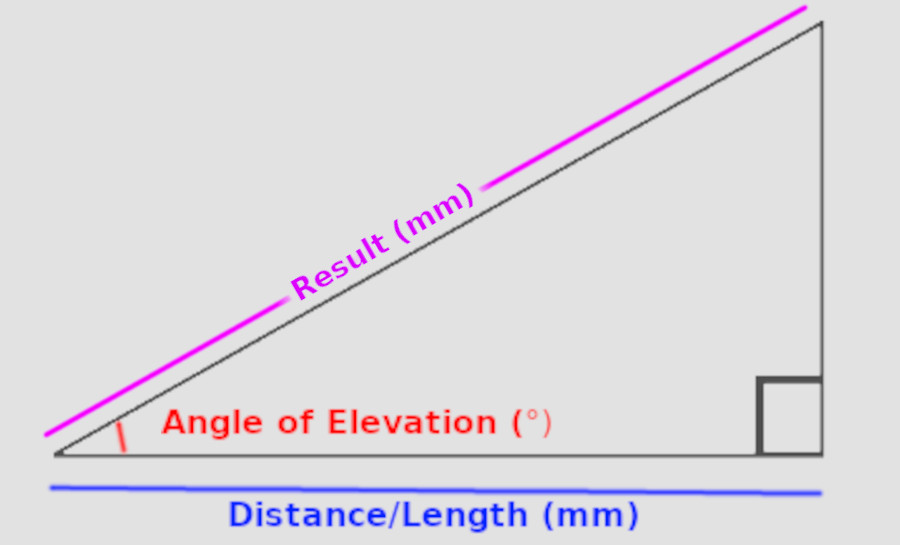
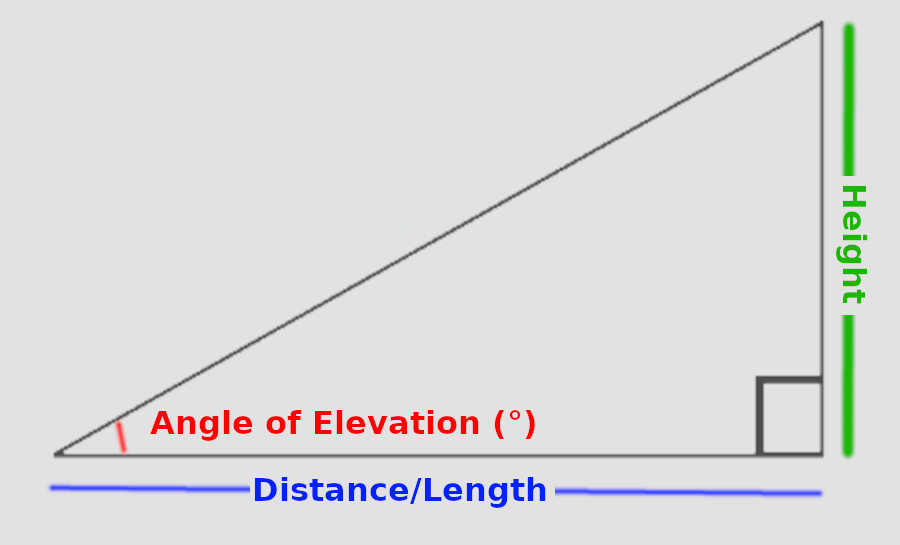
upload time: 12/10/23 13:25:10

diff --git a/a/index.html b/a/index.html
@@ -16,6 +16,31 @@
         input, button {
             margin-bottom: 10px;
         }
+ #result {
+            font-weight: bold;
+        }
+
+        .angle-result {
+			font-family:Sans-serif;
+			font-size:33px;
+			font-weight: bold;
+            color: #fc2a28;
+        }
+
+        .distance-result {
+			font-family:Sans-serif;
+			font-size:33px;
+			font-weight: bold;
+            color: #3743ff;
+        }
+
+        .height-result {
+			font-family:Sans-serif;
+			font-size:33px;
+			font-weight: bold;
+            color: #1cb800;
+        }
+        }
     </style>
 </head>
 <body>
@@ -29,41 +54,115 @@
 				</td>
 			</tr>
 
-    <label for="angleInput">Angle of Elevation (°):</label>
-    <input type="text" id="angleInput" placeholder="angle (°)" required>
+    <label for="angle">Angle of Elevation (°):</label>
+    <input type="number" id="angle" placeholder="angle" >°
     
-    <label for="distanceInput">Distance/Length(mm):</label>
-    <input type="text" id="distanceInput" placeholder="distance/length (mm)" required>
+    <label for="distance">Distance/Length:</label>
+    <input type="number" id="distance" placeholder="distance/length"> units
+    
+    
+    <label for="height">Difference:</label>
+    <input type="number" id="height"  placeholder="difference"> units
 
-    <button onclick="calculateHeight()">Calculate</button>
+    <button onclick="startCalculate()">Calculate</button>
+    <button onclick="resetall()">Reset</button>
 
-    <label for="result">Result (Height in mm):</label>
-    <input type="text" id="result" readonly>
+    <p>  <span id="result"></span></p>
+
 
     <script>
-        function calculateHeight() {
-            // Get user inputs
-            var angle = parseFloat(document.getElementById('angleInput').value);
-            var distance = parseFloat(document.getElementById('distanceInput').value);
+ 
 
-            // Check if inputs are valid
-            if (isNaN(angle) || isNaN(distance)) {
-                alert('Please enter valid numeric values for both angle and distance.');
+function resetall(){
+			document.getElementById('angle').value = "";
+			document.getElementById('distance').value = "";
+			document.getElementById('height').value = "";
+			}
+	
+function startCalculate() {
+            let distance = document.getElementById("distance").value;
+            let height = document.getElementById("height").value;
+            let angle = document.getElementById("angle").value;
+
+            if (distance !== "" && height !== "" && angle !== "") {
+                alert("Please provide only two values.");
                 return;
             }
 
-            // Convert angle to radians
-            var angleInRadians = angle * (Math.PI / 180);
-
-            // Calculate height using trigonometry
-            var height = Math.tan(angleInRadians) * distance;
-
-            // Display the result
-            document.getElementById('result').value = height.toFixed(2) + ' mm';
+            if (distance !== "" && height !== "") {
+                // Angle is missing
+                calculateAngleOfElevation();
+            } else if (distance !== "" && angle !== "") {
+                // Height is missing
+                calculateHeight();
+            } else if (height !== "" && angle !== "") {
+                // Distance is missing
+                calculateDistance();
+            } else {
+                alert("Please provide at least two values.");
+            }
         }
+
+        function calculateAngleOfElevation() {
+            let distance = document.getElementById("distance").value;
+            let height = document.getElementById("height").value;
+
+            // Convert to radians because Math.atan takes radians
+            let angleOfElevation = Math.atan(height / distance) * (180 / Math.PI);
+
+            // Display result Angle
+            document.getElementById("angle").value = angleOfElevation.toFixed(2);
+            displayResultangle(angleOfElevation, 'angle-result');
+        }
+
+        function calculateDistance() {
+            let angle = document.getElementById("angle").value;
+            let height = document.getElementById("height").value;
+
+            // Convert to radians because Math.tan takes radians
+            let angleInRadians = angle * (Math.PI / 180);
+            let distance = height / Math.tan(angleInRadians);
+
+            // Display result distance
+            document.getElementById("distance").value = distance.toFixed(2);
+            displayResultdistance(distance, 'distance-result');
+        }
+
+        function calculateHeight() {
+            let angle = document.getElementById("angle").value;
+            let distance = document.getElementById("distance").value;
+
+            // Convert to radians because Math.tan takes radians
+            let angleInRadians = angle * (Math.PI / 180);
+            let height = distance * Math.tan(angleInRadians);
+
+            // Display result Height/Difference
+            document.getElementById("height").value = height.toFixed(2);
+            displayResultheight(height, 'height-result');
+        }
+        
+        function displayResultheight(value, resultClass) {
+            // Set the class dynamically based on the function
+            document.getElementById("result").className = resultClass;
+            document.getElementById("result").innerText = `Height: ${value.toFixed(2)} units`;
+        }
+        
+         function displayResultdistance(value, resultClass) {
+            // Set the class dynamically based on the function
+            document.getElementById("result").className = resultClass;
+            document.getElementById("result").innerText = `Distance/Length: ${value.toFixed(2)} units` ;
+
+        }       
+        
+        function displayResultangle(value, resultClass) {
+            // Set the class dynamically based on the function
+            document.getElementById("result").className = resultClass;
+            document.getElementById("result").innerText = `Angle of Elevation: ${value.toFixed(2)} °`;
+        }
+
     </script>
 
 <br><br><br>
-ChatGPT generated most of the codes of this page.
+Thank you ChatGPT for generating most of the code on this page. :)
 </body>
 </html>

diff --git a/a/temp.html b/a/temp.html
@@ -1,0 +1,83 @@
+<!DOCTYPE html>
+<html lang="en">
+<head>
+    <meta charset="UTF-8">
+    <meta name="viewport" content="width=device-width, initial-scale=1.0">
+    <title>Trigonometry Calculator</title>
+</head>
+<body>
+    <label for="distance">Distance:</label>
+    <input type="text" id="distance" placeholder="Enter distance">
+
+    <label for="height">Height:</label>
+    <input type="number" id="height" placeholder="Enter height">
+
+    <label for="angle">Angle of Elevation:</label>
+    <input type="number" id="angle" placeholder="Enter angle">
+
+    <button onclick="startCalculate()">Calculate</button>
+
+    <p>Result: <span id="result"></span></p>
+
+    <script>
+        function startCalculate() {
+            let distance = document.getElementById("distance").value;
+            let height = document.getElementById("height").value;
+            let angle = document.getElementById("angle").value;
+
+            if (distance !== "" && height !== "" && angle !== "") {
+                alert("Please provide only two values.");
+                return;
+            }
+
+            if (distance !== "" && height !== "") {
+                // Angle is missing
+                calculateAngleOfElevation();
+            } else if (distance !== "" && angle !== "") {
+                // Height is missing
+                calculateHeight();
+            } else if (height !== "" && angle !== "") {
+                // Distance is missing
+                calculateDistance();
+            } else {
+                alert("Please provide at least two values.");
+            }
+        }
+
+        function calculateAngleOfElevation() {
+            let distance = document.getElementById("distance").value;
+            let height = document.getElementById("height").value;
+
+            // Convert to radians because Math.atan takes radians
+            let angleOfElevation = Math.atan(height / distance) * (180 / Math.PI);
+
+            // Display result
+            document.getElementById("result").innerText = `Angle of Elevation: ${angleOfElevation.toFixed(2)} degrees`;
+        }
+
+        function calculateDistance() {
+            let angle = document.getElementById("angle").value;
+            let height = document.getElementById("height").value;
+
+            // Convert to radians because Math.tan takes radians
+            let angleInRadians = angle * (Math.PI / 180);
+            let distance = height / Math.tan(angleInRadians);
+
+            // Display result
+            document.getElementById("result").innerText = `Distance: ${distance.toFixed(2)} units`;
+        }
+
+        function calculateHeight() {
+            let angle = document.getElementById("angle").value;
+            let distance = document.getElementById("distance").value;
+
+            // Convert to radians because Math.tan takes radians
+            let angleInRadians = angle * (Math.PI / 180);
+            let height = distance * Math.tan(angleInRadians);
+
+            // Display result
+            document.getElementById("result").innerText = `Height: ${height.toFixed(2)} units`;
+        }
+    </script>
+</body>
+</html>
